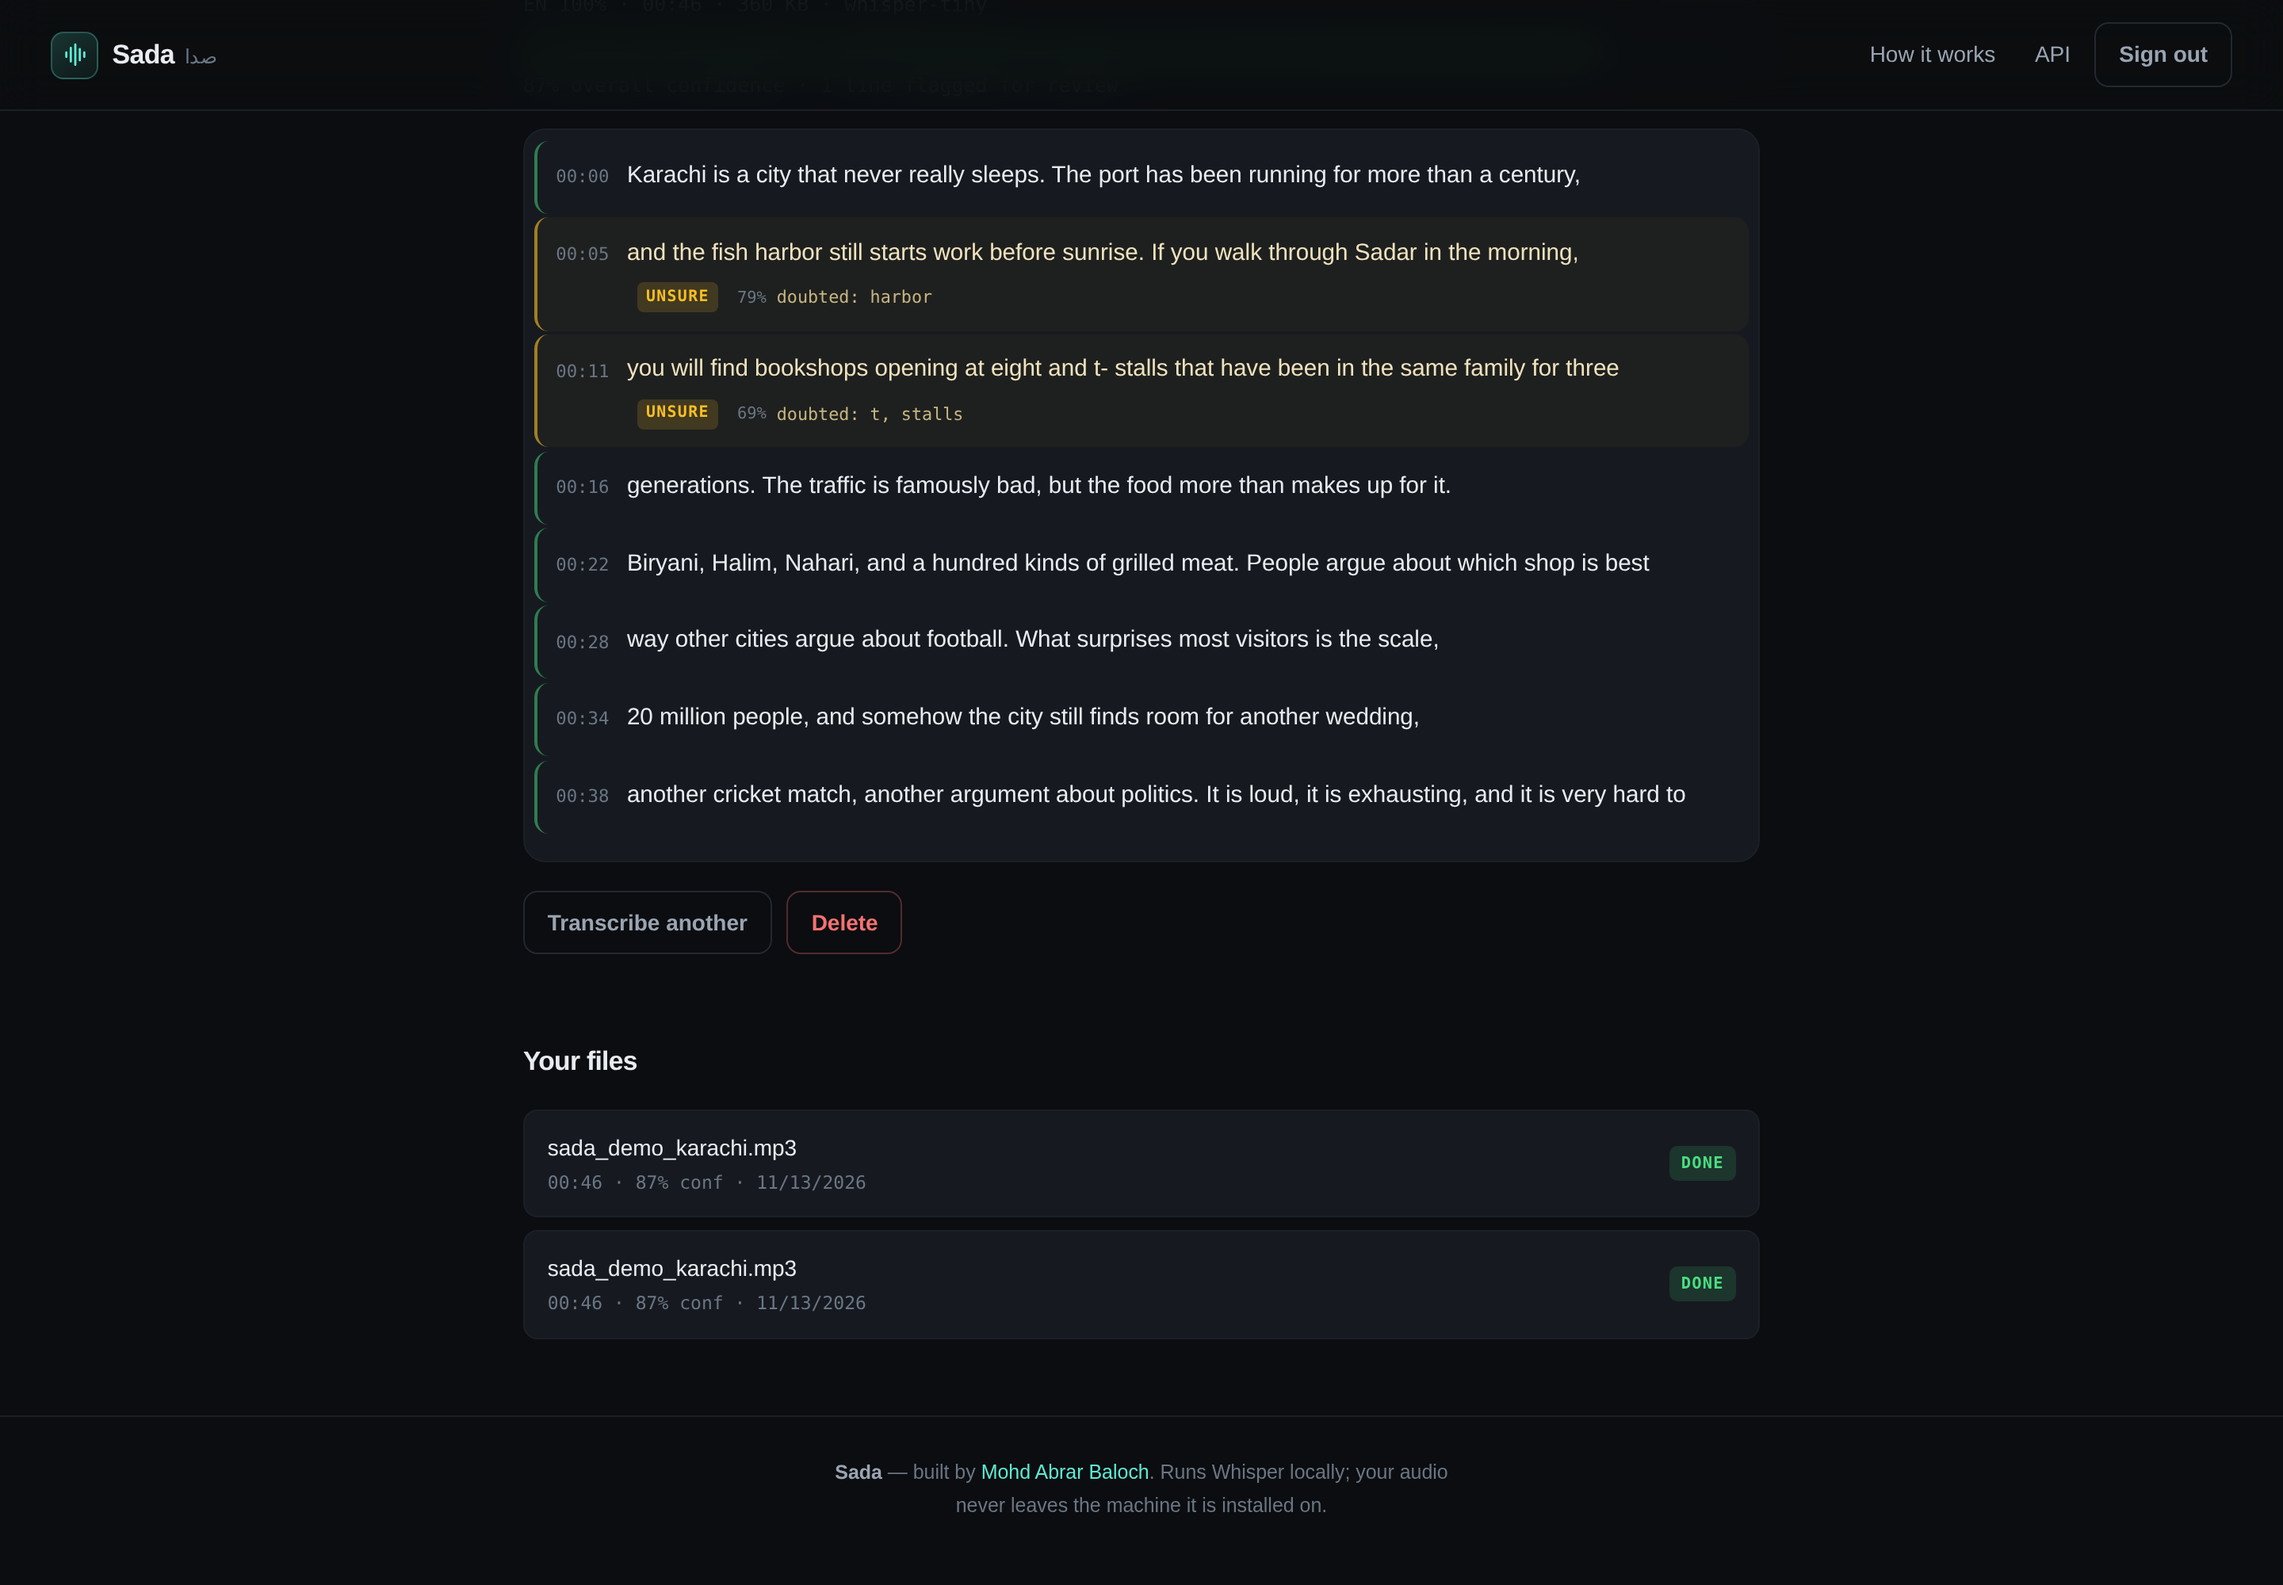
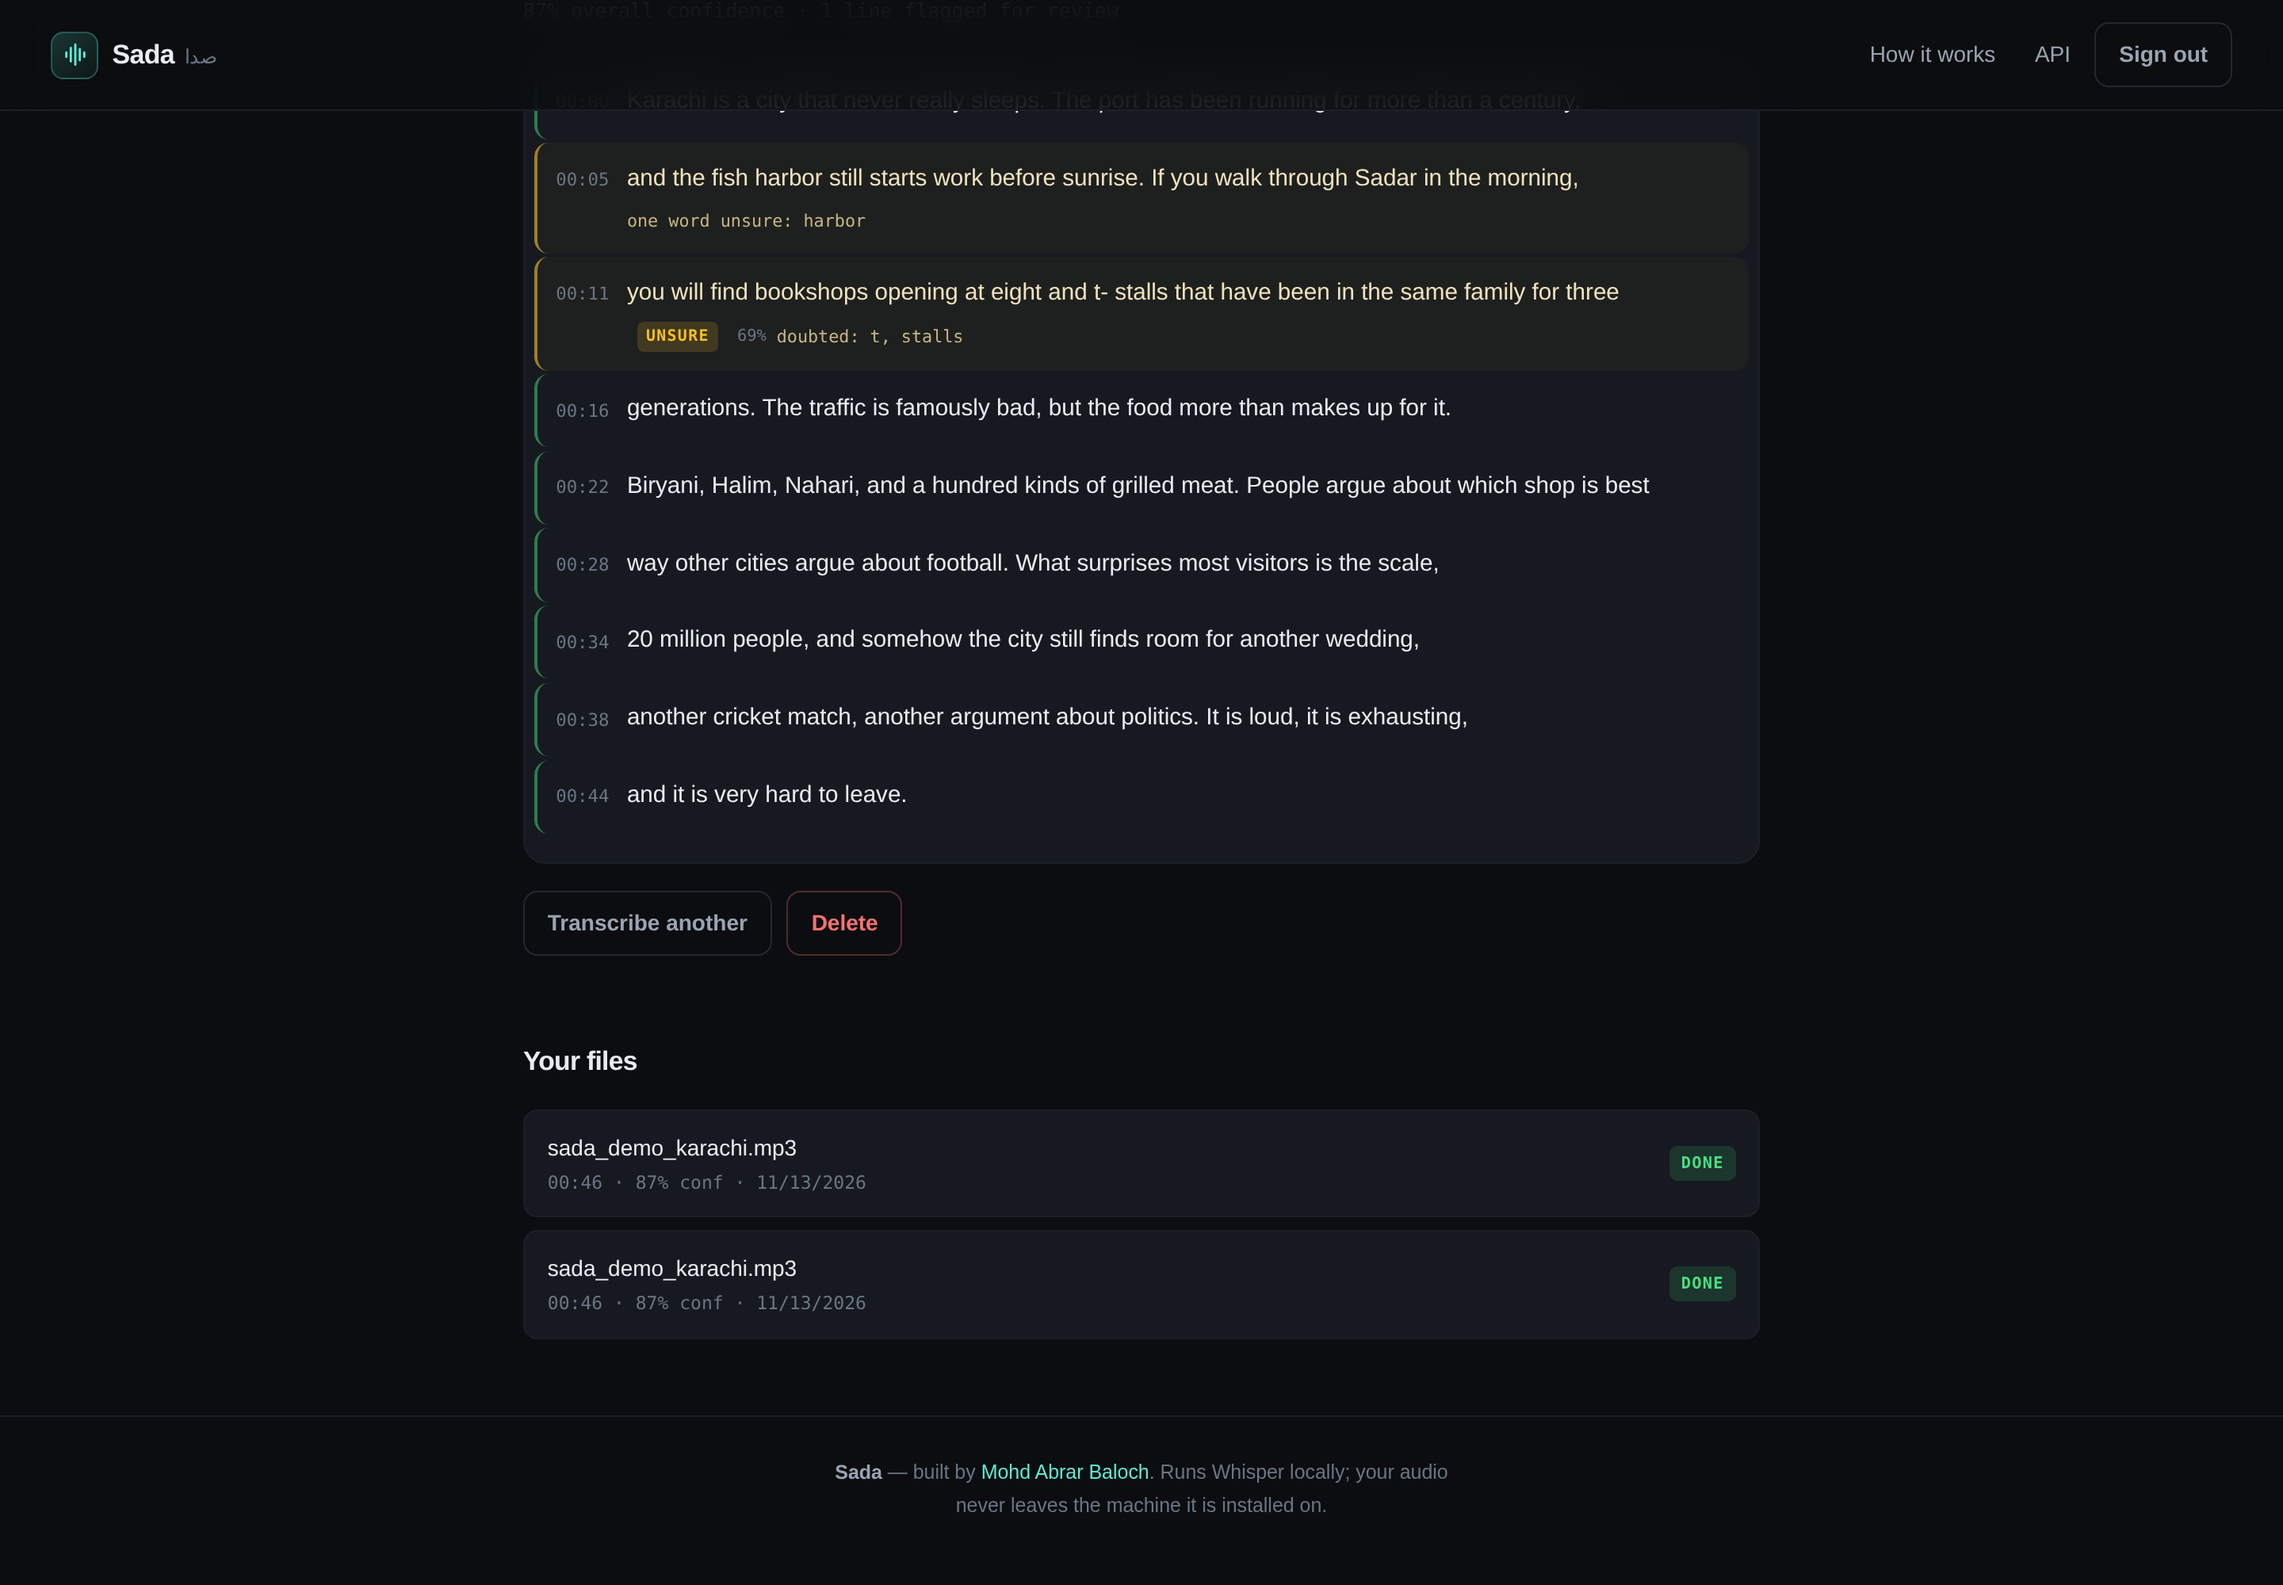
Fix VAD dropping the last word, and make the flag count honest
Two real defects found by reading the rendered output rather than trusting it.

1. The transcript was losing its final word. With min_silence_duration_ms at
   500, the trailing silence got trimmed along with the word before it, so
   'it is very hard to leave.' came back as 'it is very hard to'. Raising it
   to 2000 keeps the tail intact and still removes long dead air. Verified
   against the same file: 8 segments ending at 45.12s before, 9 segments
   ending at 45.46s after.

2. The header said '1 line flagged' while two lines showed an UNSURE badge,
   because the badge was driven by the colour tier and the count by the
   server's uncertain flag. The badge now follows the flag, and a line with a
   doubtful word that is not flagged says 'one word unsure' instead of
   implying it needs review.

Also widened the screenshot clip so the export toolbar is not cut off.

diff --git a/app/static/app.js b/app/static/app.js
@@ -351,11 +351,13 @@
 
         // Meta goes in its own block so the badge and the doubted words land
         // in the same place on every line, whether or not the text wraps.
-        if (tier !== "high" || s.low_words) {
+        // The badge follows the server's `uncertain` flag, not the colour tier
+        // — otherwise the header count and the badges disagree.
+        if (s.uncertain || s.low_words) {
           const meta = document.createElement("span");
           meta.className = "seg-meta";
 
-          if (tier !== "high") {
+          if (s.uncertain) {
             const flag = document.createElement("span");
             flag.className = "seg-flag";
             flag.textContent = tier === "low" ? "check" : "unsure";
@@ -368,10 +370,15 @@
           }
 
           // Name the actual words the model doubted — that is the whole point.
+          // A line can have a doubtful word without being flagged for review
+          // (the rest of it was solid), so label that case differently rather
+          // than leaving a bare "doubted:" with no badge next to it.
           if (s.low_words) {
             const words = document.createElement("span");
             words.className = "seg-words";
-            words.textContent = `doubted: ${s.low_words}`;
+            words.textContent = s.uncertain
+              ? `doubted: ${s.low_words}`
+              : `one word unsure: ${s.low_words}`;
             meta.appendChild(words);
           }
 

diff --git a/app/static/styles.css b/app/static/styles.css
@@ -288,6 +288,7 @@ a:hover { text-decoration: underline; }
   gap: .9rem;
   margin-bottom: 1.1rem;
 }
+.ws-head > div:first-child { min-width: 0; flex: 1 1 200px; }
 .ws-head h2 {
   font-size: 1.1rem;
   margin: 0 0 .2rem;
@@ -301,7 +302,14 @@ a:hover { text-decoration: underline; }
   color: var(--ink-faint);
   font-family: var(--mono);
 }
-.ws-actions { display: flex; align-items: center; gap: .5rem; flex-wrap: wrap; }
+.ws-actions {
+  display: flex;
+  align-items: center;
+  gap: .5rem;
+  flex-wrap: wrap;
+  min-width: 0;
+  max-width: 100%;
+}
 
 .export-group {
   display: flex;
@@ -310,6 +318,7 @@ a:hover { text-decoration: underline; }
   border: 1px solid var(--line);
   border-radius: var(--radius-sm);
   padding: 2px;
+  flex-shrink: 0;
 }
 .chip {
   font: inherit;

diff --git a/scripts/screenshots.py b/scripts/screenshots.py
@@ -42,10 +42,23 @@ async def main() -> int:
         await page.screenshot(path=OUT / "transcript.png")
         print("transcript.png")
 
-        # scroll to the transcript for a tighter shot
+        # A tighter shot clipped to the workspace element. scrollIntoView alone
+        # produced a byte-identical copy of the full-page shot, so clip instead.
+        # The box is padded so the header buttons are not cut off at the edge.
         await page.evaluate("document.getElementById('workspace').scrollIntoView()")
         await page.wait_for_timeout(500)
-        await page.screenshot(path=OUT / "transcript_detail.png")
+        box = await page.locator("#workspace").bounding_box()
+        if box:
+            pad = 56
+            await page.screenshot(
+                path=OUT / "transcript_detail.png",
+                clip={
+                    "x": max(0, box["x"] - pad),
+                    "y": max(0, box["y"] - pad),
+                    "width": min(1440 - max(0, box["x"] - pad), box["width"] + pad * 2),
+                    "height": box["height"] + pad * 2,
+                },
+            )
         print("transcript_detail.png")
 
         # history view

diff --git a/app/engine.py b/app/engine.py
@@ -94,7 +94,10 @@ class TranscriptionEngine:
             beam_size=settings.whisper_beam_size,
             language=language or None,
             vad_filter=True,
-            vad_parameters={"min_silence_duration_ms": 500},
+            # 500ms was dropping the last word of a file: the trailing silence
+            # got trimmed along with the word before it. 2000ms keeps the tail
+            # intact and still removes long dead air.
+            vad_parameters={"min_silence_duration_ms": 2000},
             word_timestamps=True,
         )
 
